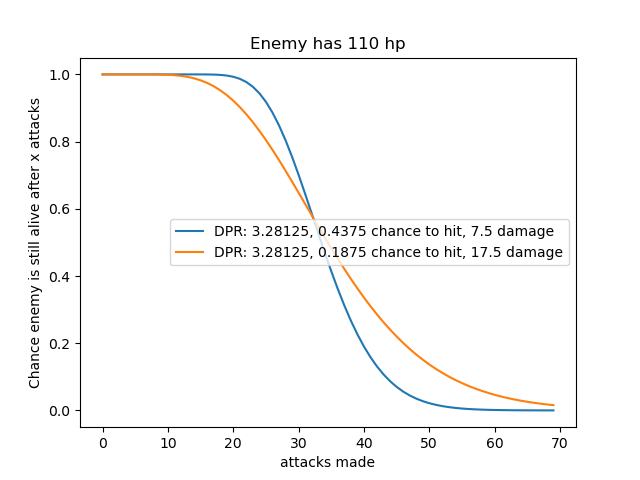
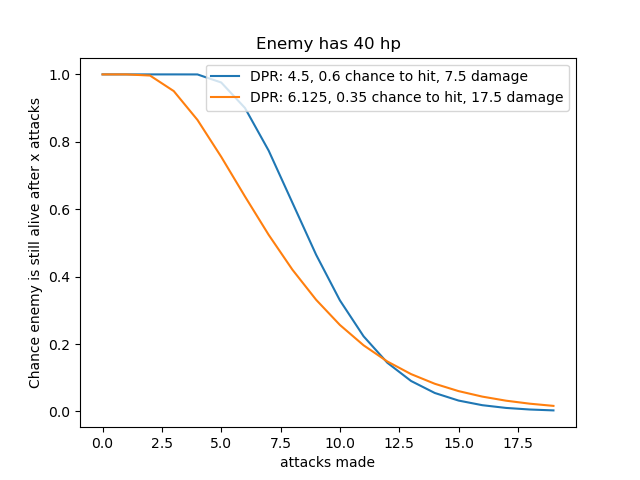
init

diff --git a/main.py b/main.py
@@ -23,9 +23,9 @@ def murder_probability_mass(x,hp,accuracy,damage_dice,static_damage,damage_trial
   distributions = np.array([[(1-nbinom(attacks_required,accuracy).cdf(x_i-attacks_required)) for attacks_required in attacks_required_distribution[0]] for x_i in x])*attacks_required_distribution[1] #create mixture of negative binomial distributions per damage dice result
   return np.sum(distributions,axis=1) #create the weighted sum of negative binomial distributions on accuracy per damage dice determined number of attacks required to kill
 
-x=list(range(70))
-hp = 110
-base_accuracy = 0.4375
+x=list(range(20))
+hp = 40
+base_accuracy = 0.6
 damage_dice = [6]
 static_modifier = 4
 plt.plot(x,murder_probability_mass(x,hp,base_accuracy,damage_dice,static_modifier))
